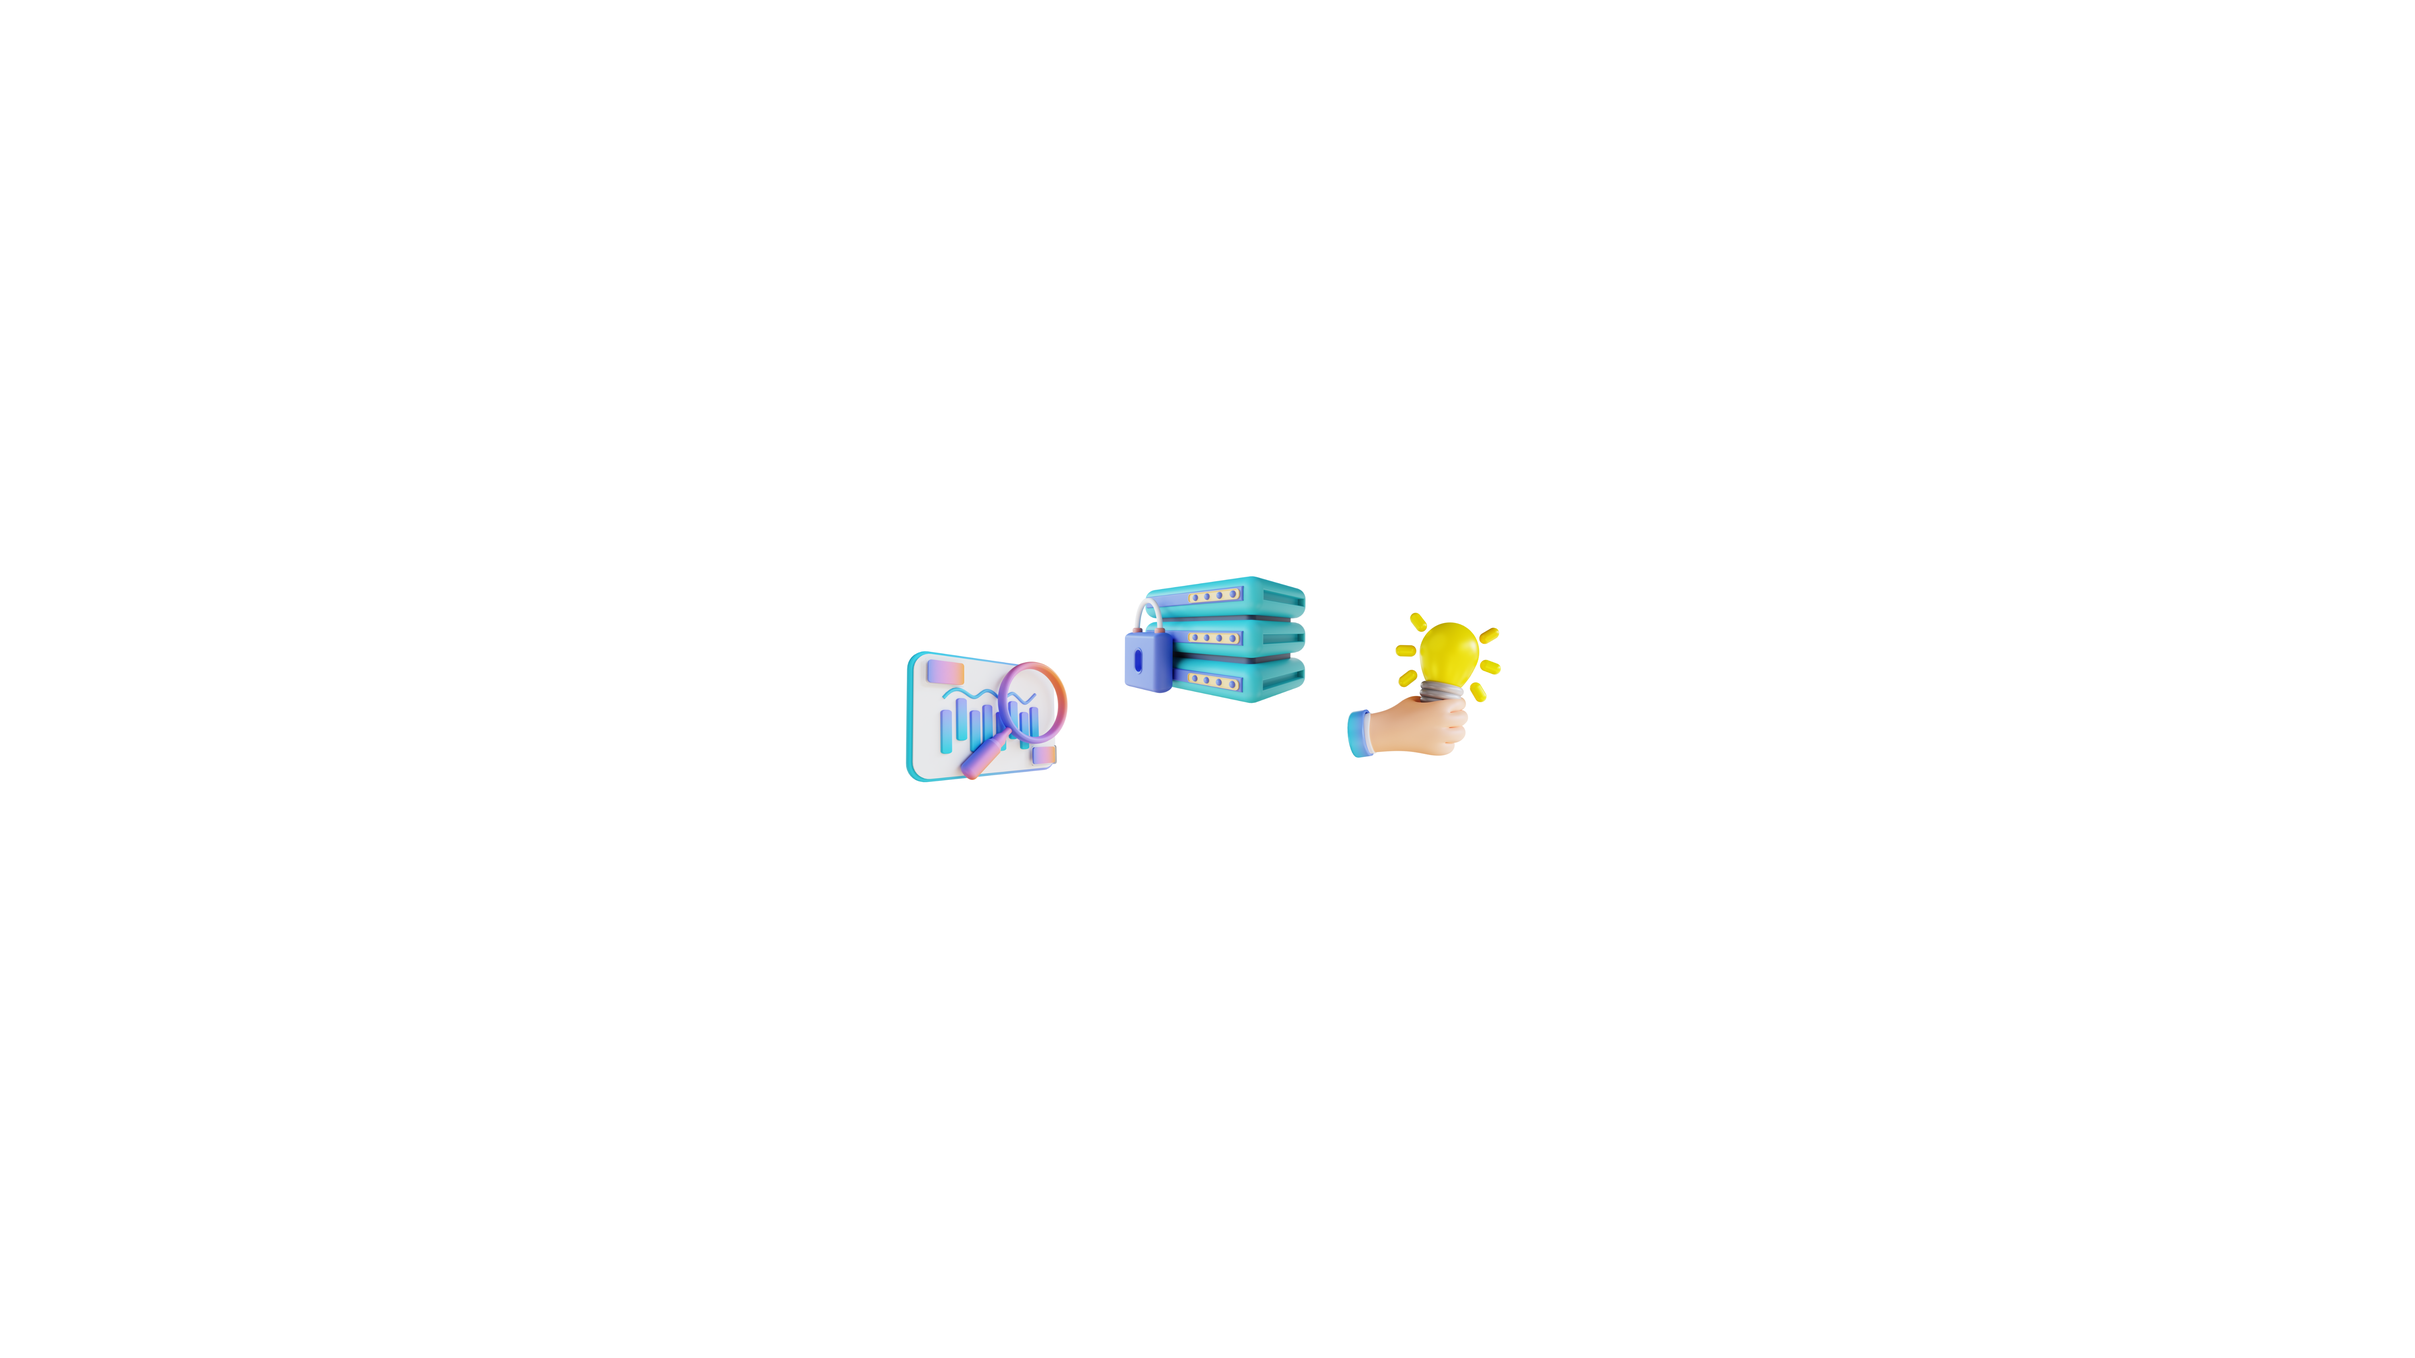
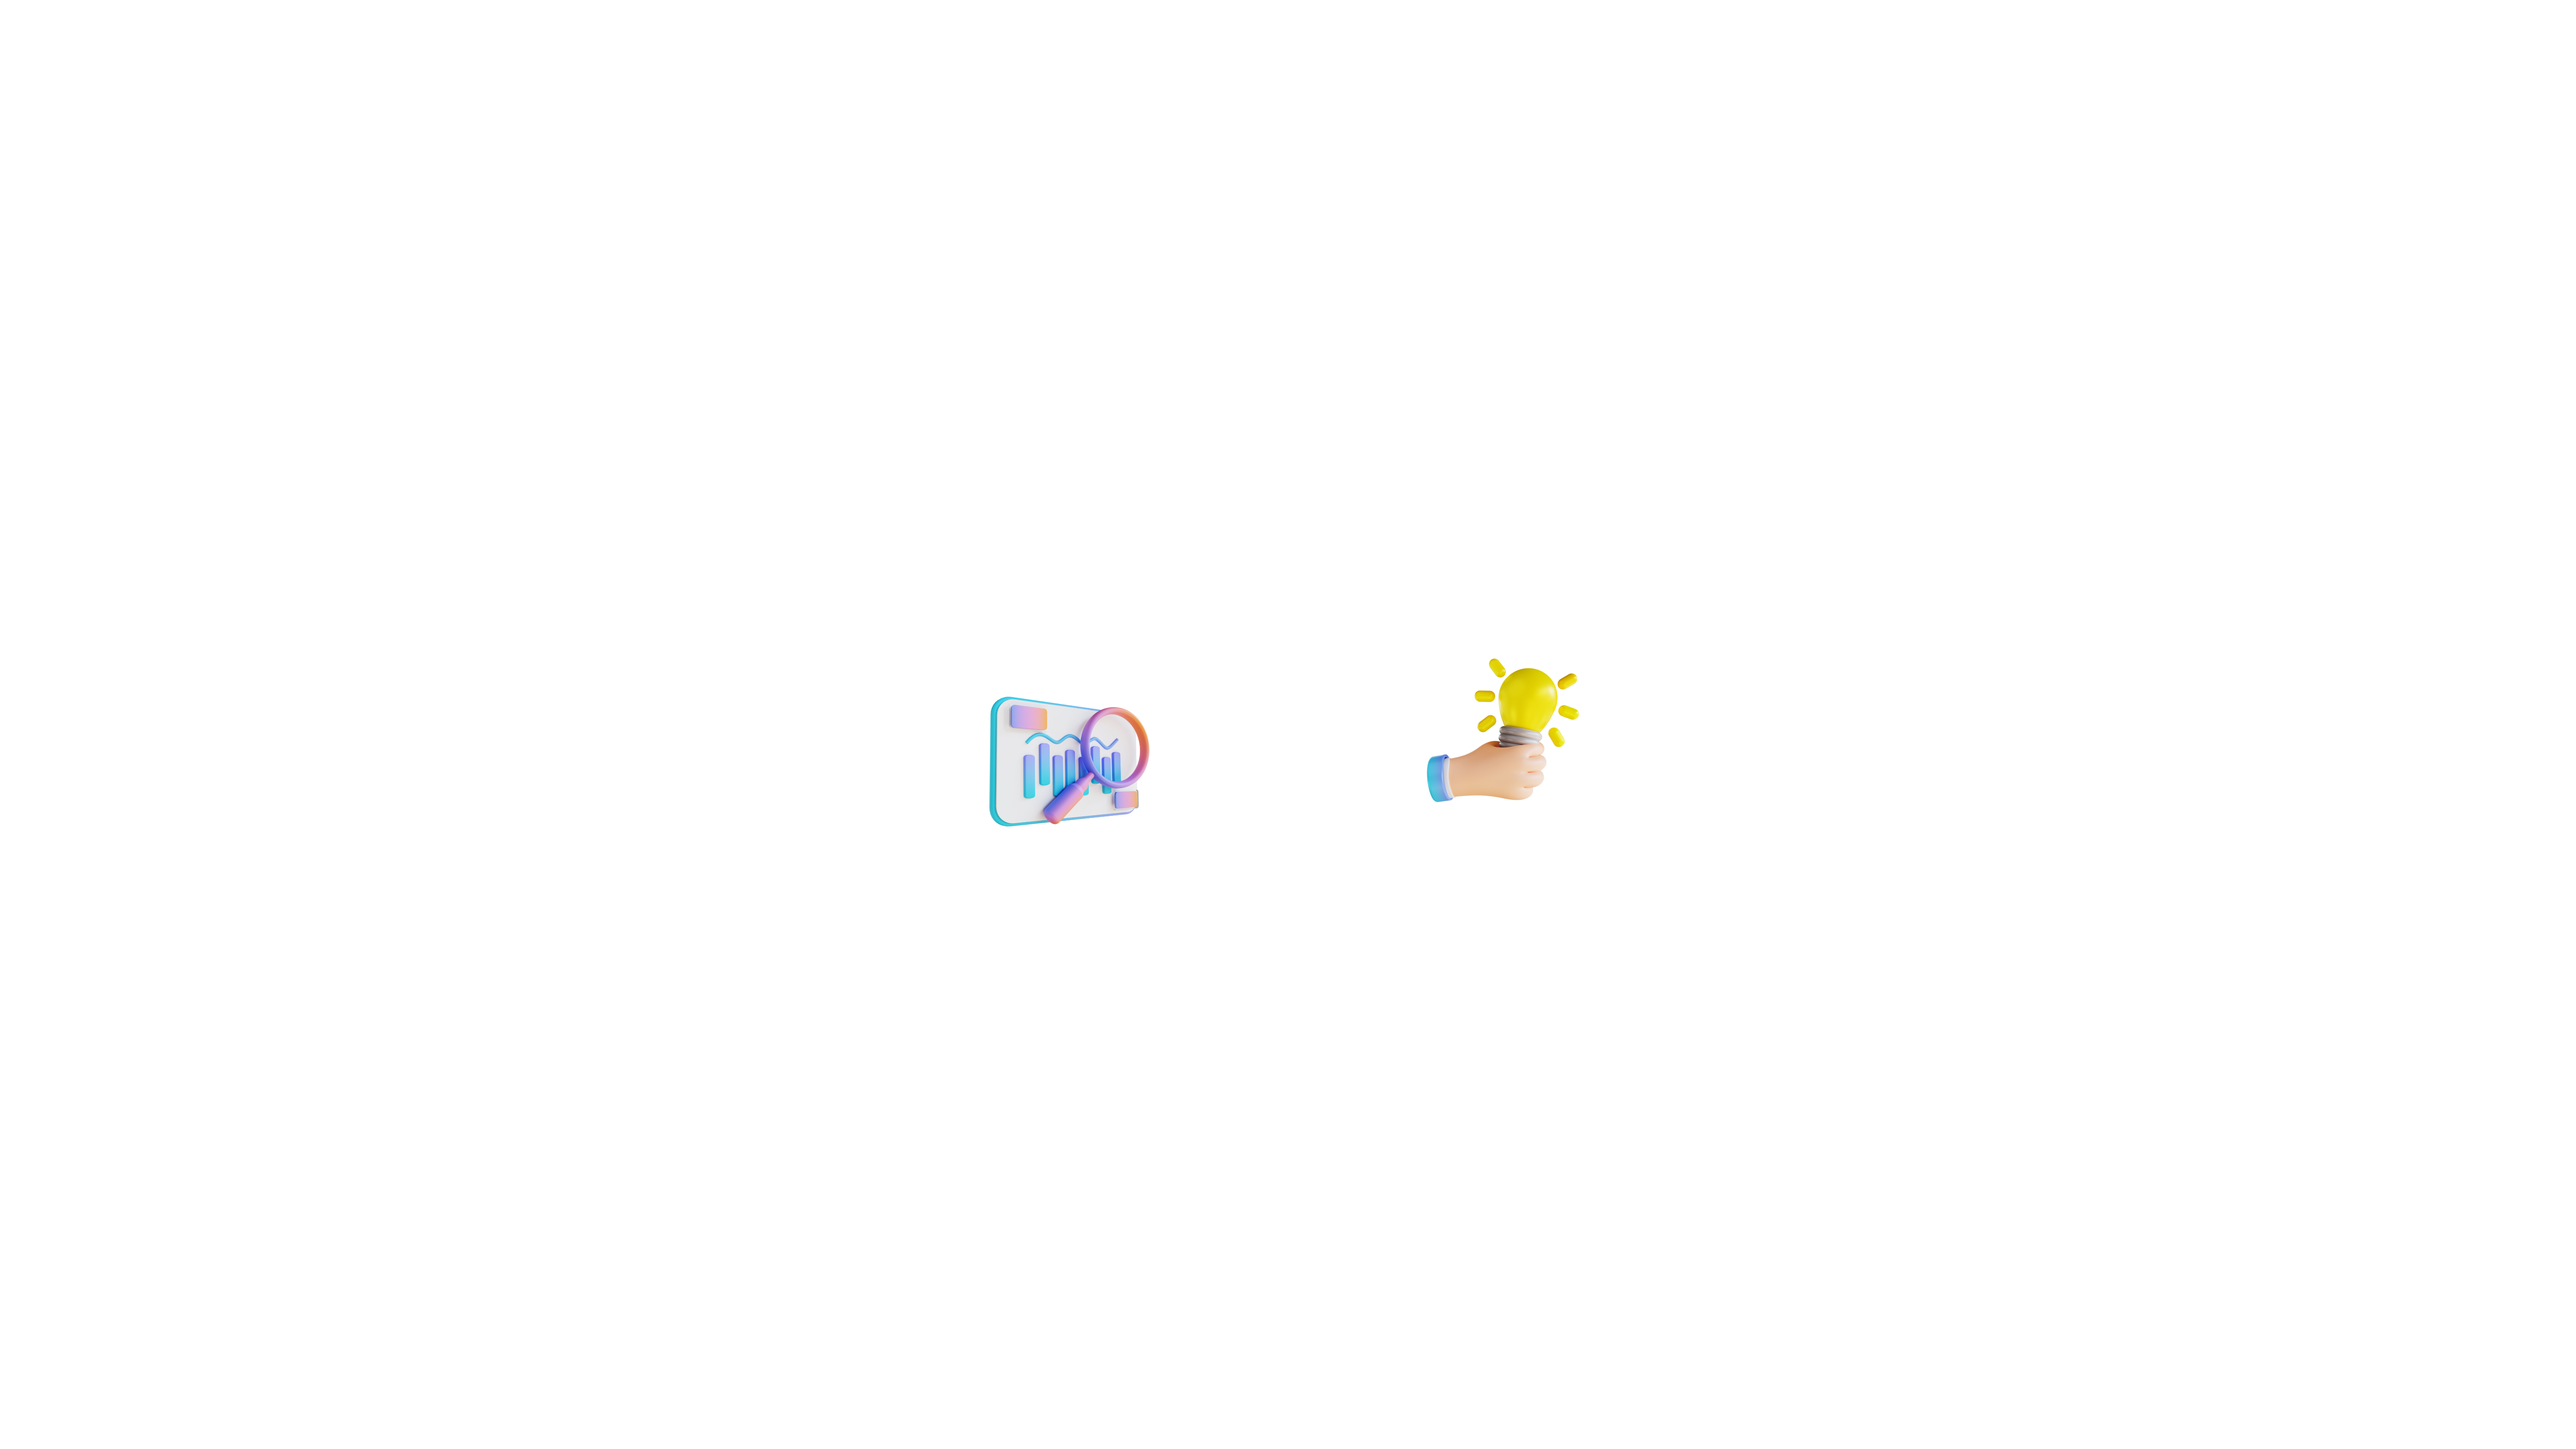
Added %th Layer in Parallax

Changed region(s): [[0.374, 0.4044, 0.6233, 0.5911]]

diff --git a/src/components/pages/ParallaxTest.tsx b/src/components/pages/ParallaxTest.tsx
@@ -4,7 +4,7 @@ import bg1 from "/image/bg-1.png";
 import bg2 from "/image/bg-2.png";
 import bg3 from "/image/bg-3.png";
 import bg4 from "/image/bg-4.png";
-// import bg5 from "/image/bg-5.png";
+import bg5 from "/image/bg-5.png";
 import "/src/index.css";
 import NavBar from "../templates/NavBar";
 console.log("bg1:", bg1);
@@ -36,12 +36,12 @@ function ParallaxTest() {
                               fontSize: "100px",
                             }}
                           >
-                            Nexrof
+                            NEXROF
                           </h1>
                         </div>
                       ),
                       // translateY: [15, 25],
-                      translateY: [10, 50],
+                      translateY: [10, 70],
                       shouldAlwaysCompleteAnimation: true,
                       expanded: false, //Set the amount to 0 to prevent any parallax effect on the text
                     },
@@ -52,16 +52,10 @@ function ParallaxTest() {
                       shouldAlwaysCompleteAnimation: true,
                       expanded: false,
                     },
-                    {
-                      image: bg2,
-                      translateY: [15, 35],
 
-                      shouldAlwaysCompleteAnimation: true,
-                      expanded: false,
-                    },
                     {
                       image: bg3,
-                      translateY: [-5, 20],
+                      translateY: [-5, 30],
 
                       shouldAlwaysCompleteAnimation: true,
                       expanded: false,
@@ -69,18 +63,25 @@ function ParallaxTest() {
 
                     {
                       image: bg4,
-                      translateY: [10, 20],
+                      translateY: [10, 25],
 
                       shouldAlwaysCompleteAnimation: true,
                       expanded: false,
                     },
-                    // {
-                    //   image: bg5,
-                    //   translateY: [0, -20],
+                    {
+                      image: bg5,
+                      translateY: [-5, 35],
 
-                    //   shouldAlwaysCompleteAnimation: true,
-                    //   expanded: false,
-                    // },
+                      shouldAlwaysCompleteAnimation: true,
+                      expanded: false,
+                    },
+                    {
+                      image: bg2,
+                      translateY: [15, 35],
+
+                      shouldAlwaysCompleteAnimation: true,
+                      expanded: false,
+                    },
                   ]}
                 />
               </header>

diff --git a/src/index.css b/src/index.css
@@ -127,8 +127,6 @@ main {
   animation-duration: 3s;
   animation-iteration-count: infinite;
   animation-timing-function: ease-in-out;
-  margin-left: 30px;
-  margin-top: 5px;
 }
 
 @keyframes floating {
